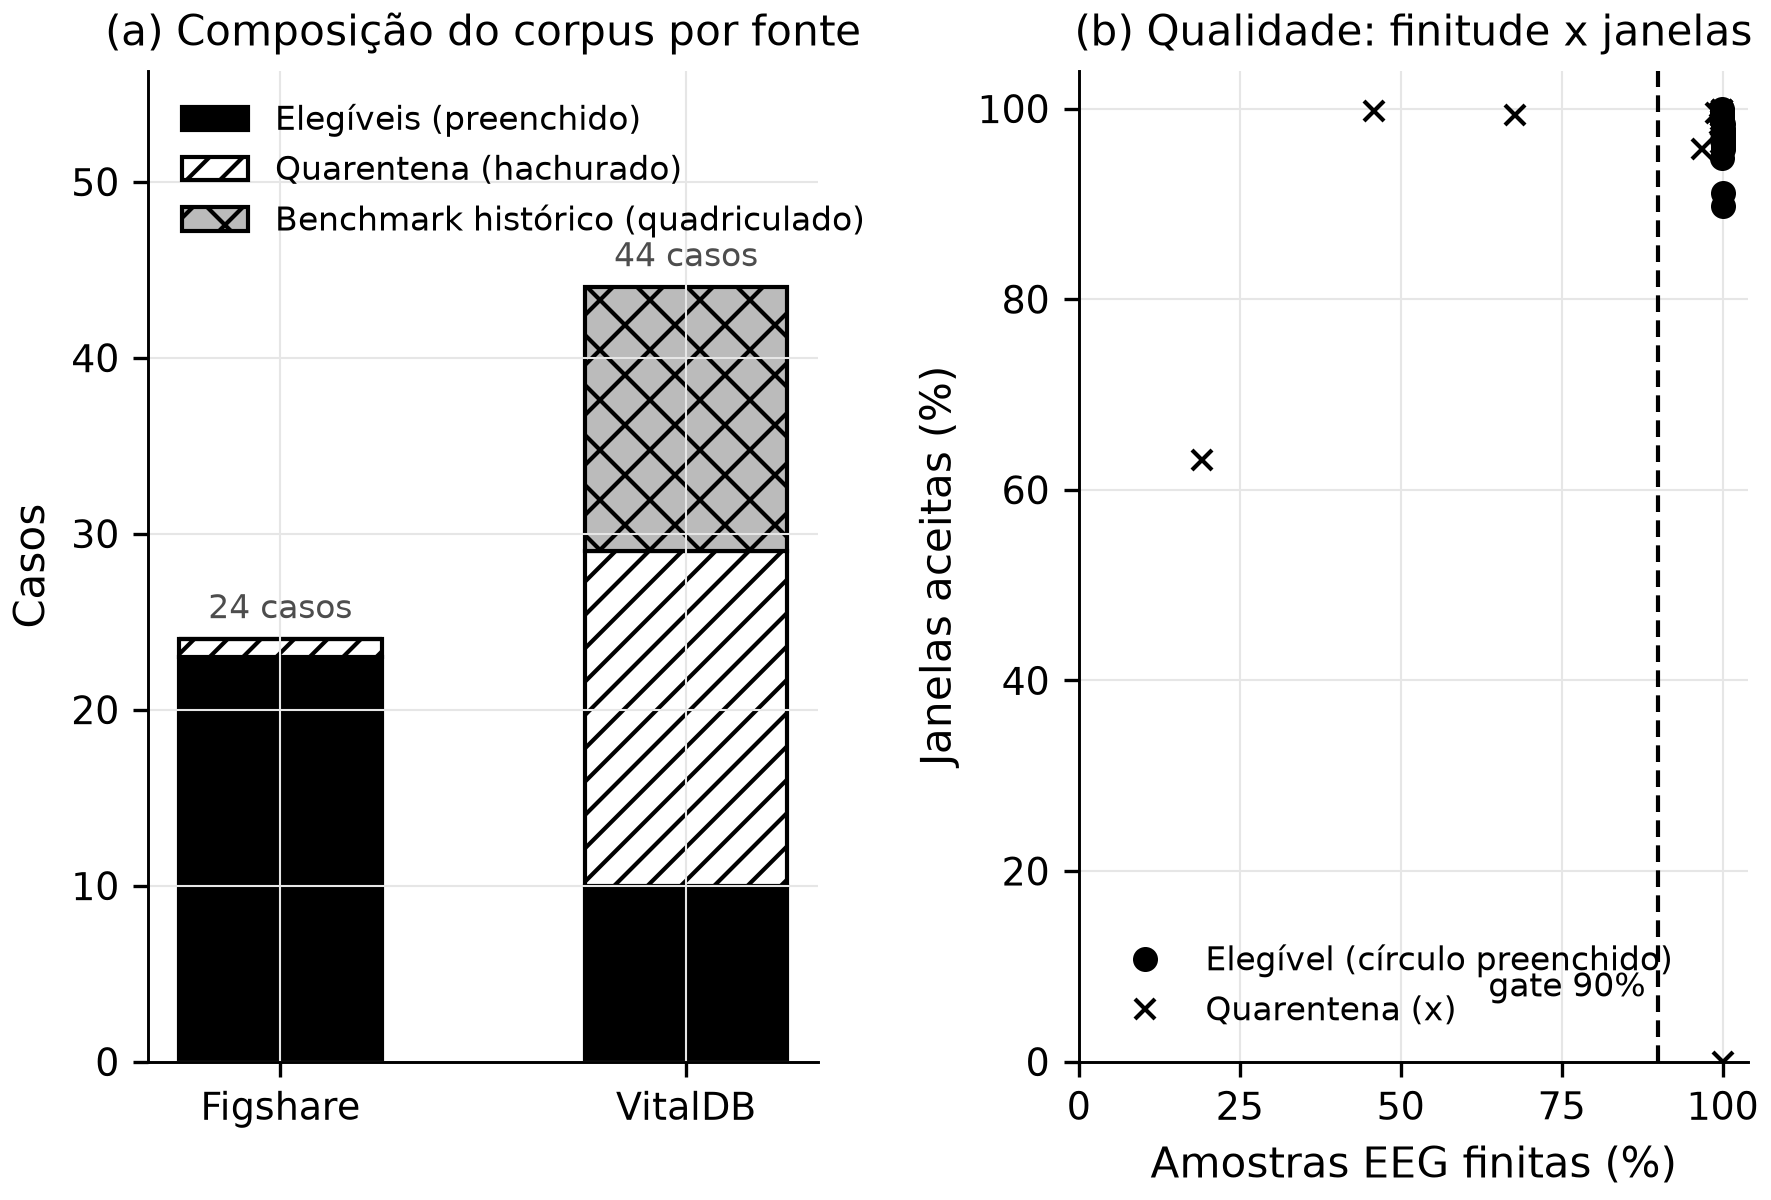
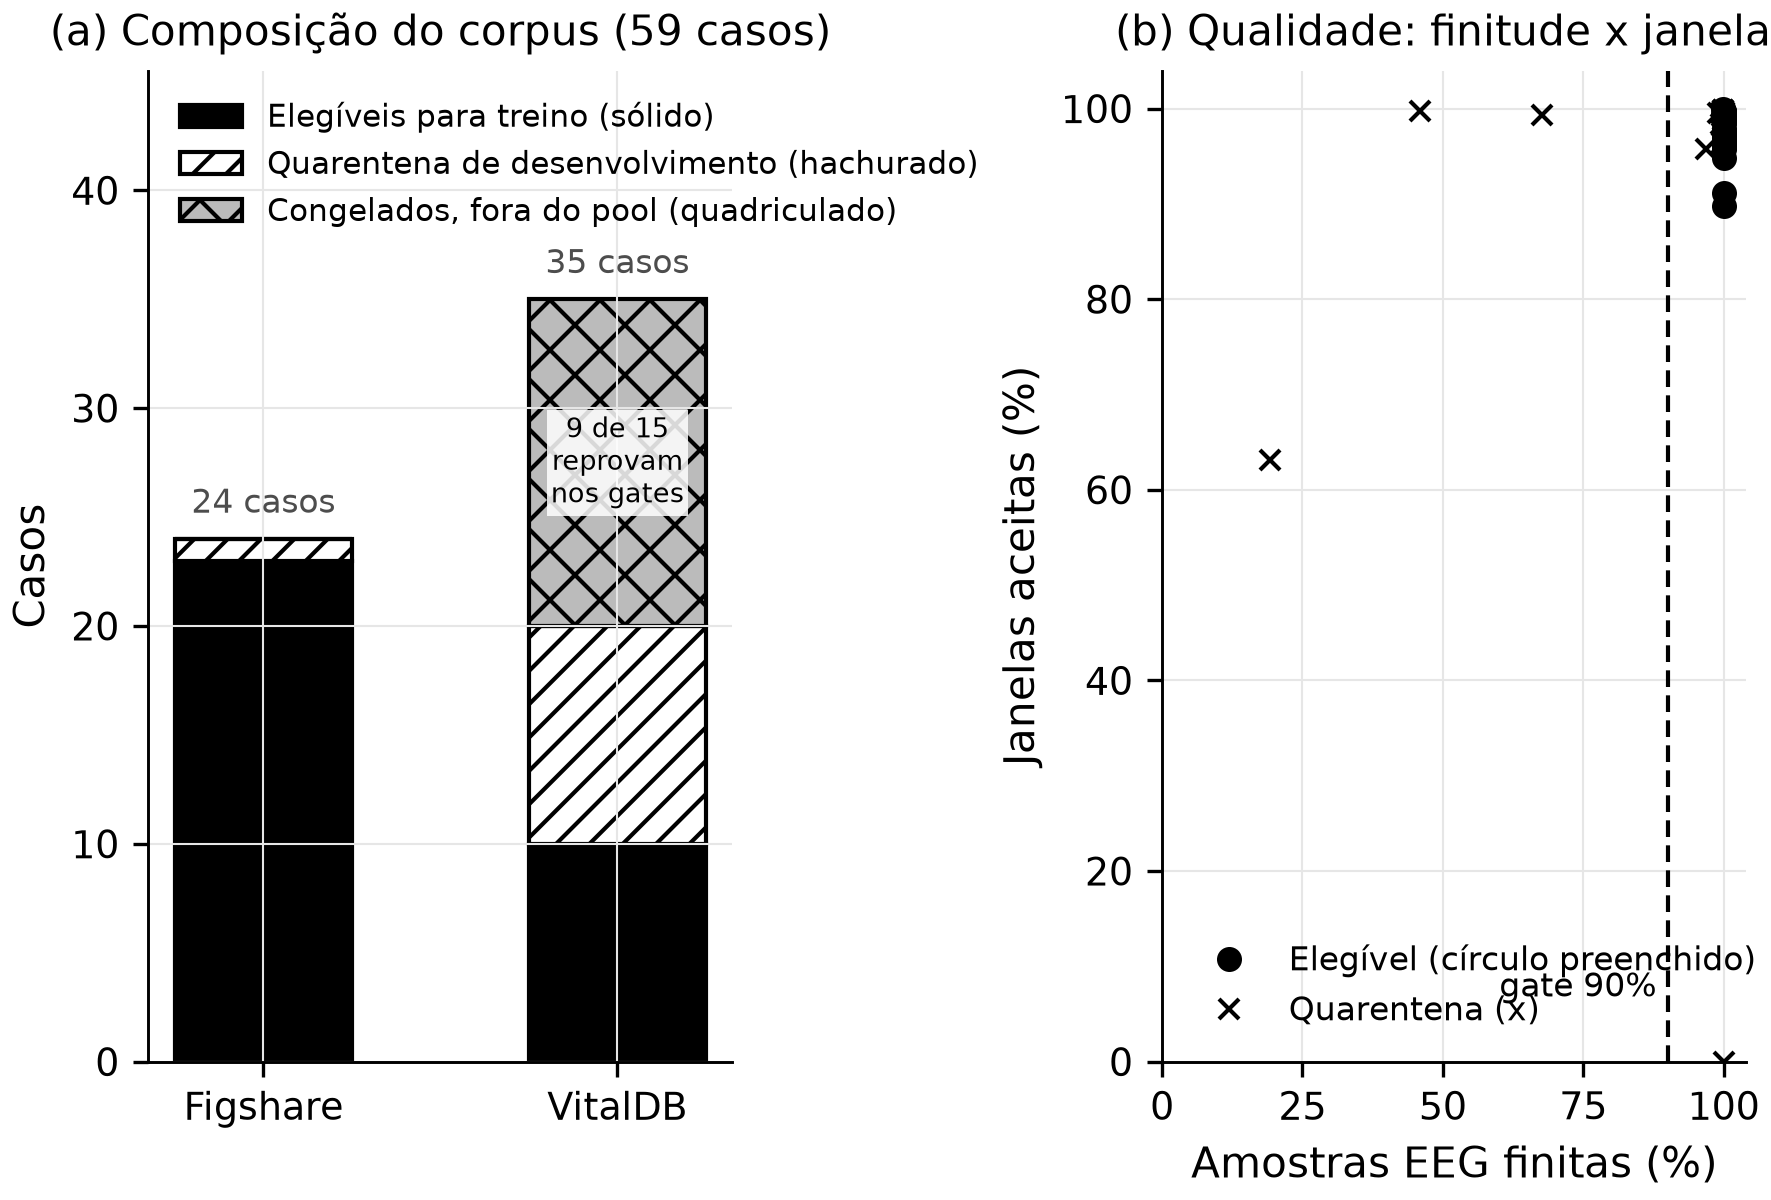
feat(figures): categorias mutuamente exclusivas na composicao do corpus (Fig 7a)

diff --git a/docs/generate_figures.py b/docs/generate_figures.py
@@ -648,53 +648,170 @@ def figure_corpus_panels(reports):
     """Composição do corpus e mapa de qualidade, em duas colunas legíveis."""
     corpus = reports["corpus_manifest.json"]
     summary = corpus.get("summary", {})
-    source_summary = summary.get("source_summary", {}) if isinstance(summary, dict) else {}
+    ensure(isinstance(summary, dict), "corpus summary missing")
+    cases = [record for record in corpus.get("cases", []) if isinstance(record, dict)]
+    ensure(bool(cases), "corpus case list missing")
+    ensure(
+        len(cases) == int(summary.get("total_files", -1)),
+        "corpus case count differs from total_files",
+    )
+    roles = {record.get("role") for record in cases}
+    ensure(
+        roles <= {"development_pool", "frozen_external"},
+        f"unexpected corpus roles: {sorted(roles - {'development_pool', 'frozen_external'})}",
+    )
+    statuses = {record.get("quality_status") for record in cases}
+    ensure(
+        statuses <= {"include", "quarantine"},
+        f"unexpected quality statuses: {sorted(statuses - {'include', 'quarantine'})}",
+    )
+
+    sources = ("figshare", "vitaldb")
+    names = {"figshare": "Figshare", "vitaldb": "VitalDB"}
+    eligible: list[int] = []
+    quarantined: list[int] = []
+    frozen: list[int] = []
+    frozen_failing: list[int] = []
+    for source in sources:
+        selected = [record for record in cases if record.get("source_key") == source]
+        ensure(bool(selected), f"corpus source missing: {source}")
+        external = [record for record in selected if record.get("role") == "frozen_external"]
+        eligible.append(
+            sum(
+                1
+                for record in selected
+                if record.get("role") == "development_pool"
+                and record.get("quality_status") == "include"
+            )
+        )
+        quarantined.append(
+            sum(
+                1
+                for record in selected
+                if record.get("role") == "development_pool"
+                and record.get("quality_status") == "quarantine"
+            )
+        )
+        frozen.append(len(external))
+        frozen_failing.append(
+            sum(1 for record in external if record.get("quality_status") != "include")
+        )
+    totals = [
+        part_eligible + part_quarantine + part_frozen
+        for part_eligible, part_quarantine, part_frozen in zip(
+            eligible, quarantined, frozen, strict=True
+        )
+    ]
+    # Categorias mutuamente exclusivas derivadas de role/quality_status, pois o
+    # source_summary do manifesto soma os congelados em quarantined_cases.
+    ensure(
+        sum(totals) == int(summary.get("total_files", -1)),
+        "corpus composition differs from total_files",
+    )
+    ensure(
+        sum(eligible) == int(summary.get("eligible_training_cases", -1)),
+        "eligible training cases differ",
+    )
+    ensure(
+        sum(quarantined) == int(summary.get("quarantined_development_cases", -1)),
+        "development quarantine differs",
+    )
+    ensure(
+        sum(frozen) == int(summary.get("frozen_external_cases", -1)),
+        "frozen external cases differ",
+    )
+    ensure(
+        sum(eligible) + sum(quarantined) == int(summary.get("development_cases", -1)),
+        "development pool size differs",
+    )
+    source_summary = summary.get("source_summary", {})
     ensure(
         isinstance(source_summary, dict) and bool(source_summary),
         "corpus source summary missing",
     )
+    for index, source in enumerate(sources):
+        expected = source_summary.get(source, {})
+        ensure(isinstance(expected, dict), f"missing source summary: {source}")
+        ensure(
+            int(expected.get("cases", -1)) == totals[index],
+            f"case total differs for {source}",
+        )
+        ensure(
+            int(expected.get("eligible_cases", -1)) == eligible[index],
+            f"eligible cases differ for {source}",
+        )
+        ensure(
+            int(expected.get("frozen_external_cases", -1)) == frozen[index],
+            f"frozen external cases differ for {source}",
+        )
+        ensure(
+            int(expected.get("quarantined_cases", -1))
+            == quarantined[index] + frozen_failing[index],
+            f"quarantine accounting differs for {source}",
+        )
 
     fig, grid = plt.subplots(1, 2, figsize=(WIDTH, 4.0), layout="constrained")
-    names = {"figshare": "Figshare", "vitaldb": "VitalDB"}
-    sources = sorted(source_summary)
-
     ax = grid[0]
     positions = list(range(len(sources)))
-    eligible = [int(source_summary[name].get("eligible_cases", 0)) for name in sources]
-    quarantined = [int(source_summary[name].get("quarantined_cases", 0)) for name in sources]
-    frozen = [int(source_summary[name].get("frozen_external_cases", 0)) for name in sources]
-    ax.bar(positions, eligible, 0.5, label="Elegíveis (preenchido)", color="black", edgecolor="black")
-    ax.bar(positions, quarantined, 0.5, label="Quarentena (hachurado)", color="white", edgecolor="black", hatch="///", bottom=eligible)
+    ax.bar(
+        positions,
+        eligible,
+        0.5,
+        label="Elegíveis para treino (sólido)",
+        color="black",
+        edgecolor="black",
+    )
+    ax.bar(
+        positions,
+        quarantined,
+        0.5,
+        label="Quarentena de desenvolvimento (hachurado)",
+        color="white",
+        edgecolor="black",
+        hatch="///",
+        bottom=eligible,
+    )
+    frozen_bottom = [
+        part_eligible + part_quarantine
+        for part_eligible, part_quarantine in zip(eligible, quarantined, strict=True)
+    ]
     ax.bar(
         positions,
         frozen,
         0.5,
-        label="Benchmark histórico (quadriculado)",
+        label="Congelados, fora do pool (quadriculado)",
         color="#BBBBBB",
         edgecolor="black",
         hatch="xx",
-        bottom=[a + b for a, b in zip(eligible, quarantined, strict=True)],
+        bottom=frozen_bottom,
     )
-    totals = [
-        a + b + c for a, b, c in zip(eligible, quarantined, frozen, strict=True)
-    ]
     for position, total in enumerate(totals):
         ax.text(position, total + 1.2, f"{total} casos", ha="center", fontsize=8, color=".3")
+    frozen_total = sum(frozen)
+    frozen_failing_total = sum(frozen_failing)
+    if frozen_total > 0 and frozen_failing_total > 0:
+        anchor = max(range(len(sources)), key=lambda index: frozen[index])
+        ensure(frozen[anchor] > 0, "frozen annotation without frozen cases")
+        ax.text(
+            anchor,
+            frozen_bottom[anchor] + frozen[anchor] / 2,
+            f"{frozen_failing[anchor]} de {frozen[anchor]}\nreprovam\nnos gates",
+            ha="center",
+            va="center",
+            fontsize=6.5,
+            bbox={"facecolor": "white", "edgecolor": "none", "pad": 1.0, "alpha": 0.85},
+        )
     ax.set(
         xticks=positions,
         xticklabels=[names.get(source, source) for source in sources],
-        title="(a) Composição do corpus por fonte",
+        title=f"(a) Composição do corpus ({sum(totals)} casos)",
         ylabel="Casos",
-        ylim=(0, max(totals) * 1.28),
+        ylim=(0, max(totals) * 1.3),
     )
-    ax.legend(frameon=False, fontsize=8, loc="upper left", borderaxespad=0.6)
+    ax.legend(frameon=False, fontsize=7.5, loc="upper left", borderaxespad=0.6)
 
     ax = grid[1]
-    records = [
-        record
-        for record in corpus.get("cases", [])
-        if isinstance(record, dict) and isinstance(record.get("signal"), dict)
-    ]
+    records = [record for record in cases if isinstance(record.get("signal"), dict)]
     gate = corpus.get("quality_config", {})
     min_finite = 90.0
     if isinstance(gate, dict):

diff --git a/docs/tcc_brainsniffer.tex b/docs/tcc_brainsniffer.tex
@@ -298,7 +298,7 @@ Na grade de offset, o ativo variou de MAE 7,22/Pearson 0,766 em $-20$ s para 7,0
 
 As duas figuras seguintes detalham o que as tabelas e os agregados comprimem. A primeira caracteriza o corpus que alimenta o protótipo; a segunda documenta o comportamento do treinamento e uma projeção declarada de planejamento. Os painéis de composição e de qualidade da Figura~\ref{fig:corpus} e o histórico da Figura~\ref{fig:training}a documentam o corpus e o treinamento; somente a projeção da Figura~\ref{fig:training}b é cenário ancorado no MAE 7,03 medido, não curva observada.
 
-A Figura~\ref{fig:corpus}a separa os casos por fonte em três estados mutuamente exclusivos. ``Elegível'' é o caso que passou por todos os gates de qualidade e entrou no pool de desenvolvimento; ``quarentena'' é o caso retido por falha de gate, como o Figshare 24, cuja escala de amplitude é incompatível; ``benchmark histórico'' é o caso reservado para avaliação, que não ajusta nenhum checkpoint. A leitura correta é de composição, não de desempenho: barras maiores não indicam melhor qualidade. A Figura~\ref{fig:corpus}b cruza a fração de amostras finitas com a fração de janelas aceitas e mostra por que os gates não são redundantes; a linha tracejada marca o gate de 90\%, e pontos à sua esquerda foram retidos independentemente do eixo vertical.
+A Figura~\ref{fig:corpus}a separa os 59 casos em três estados mutuamente exclusivos por fonte: 33 elegíveis de desenvolvimento (23 Figshare e 10 VitalDB), 11 em quarentena de desenvolvimento (1 Figshare e 10 VitalDB, como o Figshare 24, de escala incompatível) e 15 do benchmark histórico congelado, todos do VitalDB e fora do pool; 9 desses 15 reprovam nos gates internos, mas permanecem no benchmark por desenho. A leitura é de composição, não de desempenho: barras maiores não indicam melhor qualidade. A Figura~\ref{fig:corpus}b cruza a fração de amostras finitas com a fração de janelas aceitas e mostra por que os gates não são redundantes; a linha tracejada marca o gate de 90\%, e pontos à sua esquerda foram retidos independentemente do eixo vertical.
 
 \begin{figure}[H]
 \centering

diff --git a/docs/figures/README.md b/docs/figures/README.md
@@ -22,7 +22,7 @@ entram nas figuras.
 - Tipografia: DejaVu Sans distribuída com Matplotlib, 9–10 pt na escala final.
   Fundo branco, eixos pretos de 0,7 pt e grid cinza claro de 0,5 pt.
 - Paleta: preto `#000000`, cinza `#555555` e neutros; sem gradientes e sem depender de cor para distinguir séries.
-- Distinção por formato (leitura em preto e branco): círculo preenchido e linha contínua para o checkpoint ativo, quadrado aberto e linha tracejada para o candidato misto; IC misto tracejado. Segmentos cinza unem os pares na comparação. No offset, métricas usam símbolos/linhas distintos (círculo/linha contínua vs. quadrado/linha tracejada). Na trajetória, BIS de referência em linha contínua e CNN em linha tracejada. Nas barras de corpus, elegíveis em preenchimento sólido, quarentena em hachurado (`///`) e benchmark histórico em quadriculado (`xx`), todos com borda preta.
+- Distinção por formato (leitura em preto e branco): círculo preenchido e linha contínua para o checkpoint ativo, quadrado aberto e linha tracejada para o candidato misto; IC misto tracejado. Segmentos cinza unem os pares na comparação. No offset, métricas usam símbolos/linhas distintos (círculo/linha contínua vs. quadrado/linha tracejada). Na trajetória, BIS de referência em linha contínua e CNN em linha tracejada. Nas barras de corpus, elegíveis de desenvolvimento em preenchimento sólido, quarentena de desenvolvimento em hachurado (`///`) e congelados fora do pool em quadriculado (`xx`), todos com borda preta; o "9 de 15" dentro do bloco congelado é uma anotação sobre a mesma barra, sem dupla contagem.
 - Escalas: MAE parte de zero quando compara magnitudes; Pearson usa o domínio
   completo de -1 a +1; eixos ampliados da análise de offset são declarados.
 - Escopo: resultados exploratórios de pesquisa, sem interpretação como
@@ -113,13 +113,17 @@ entram nas figuras.
 
 - Pergunta: como o corpus se compõe e por que os dois gates de qualidade não são
   redundantes?
-- Takeaway: os casos se dividem em elegíveis, quarentena e benchmark histórico,
-  e um caso pode ter quase todo o EEG finito e ainda perder janelas por
-  qualidade, ou ser retido antes da contagem por lacuna inválida.
-- Painéis: (a) casos por fonte, separando elegíveis, quarentena e benchmark
-  histórico, com a soma rotulada por fonte; (b) fração de amostras de EEG
-  finitas contra fração de janelas aceitas, com a linha tracejada no gate de 90%
-  de finitude.
+- Takeaway: os 59 arquivos se dividem em categorias mutuamente exclusivas por
+  fonte — 33 elegíveis de desenvolvimento, 11 em quarentena de desenvolvimento e
+  15 congelados do benchmark histórico, que ficam fora do pool — e um caso pode
+  ter quase todo o EEG finito e ainda perder janelas por qualidade, ou ser
+  retido antes da contagem por lacuna inválida.
+- Painéis: (a) casos por fonte (24 Figshare + 35 VitalDB = 59), empilhando
+  elegíveis de desenvolvimento, quarentena de desenvolvimento e congelados fora
+  do pool, com a soma rotulada por fonte e a anotação de que 9 dos 15 congelados
+  reprovam nos gates internos (sobre a mesma barra, sem dupla contagem); (b)
+  fração de amostras de EEG finitas contra fração de janelas aceitas, com a linha
+  tracejada no gate de 90% de finitude.
 - Fontes: `reports/corpus_manifest.json`.
 
 ## `training_panels.png`
